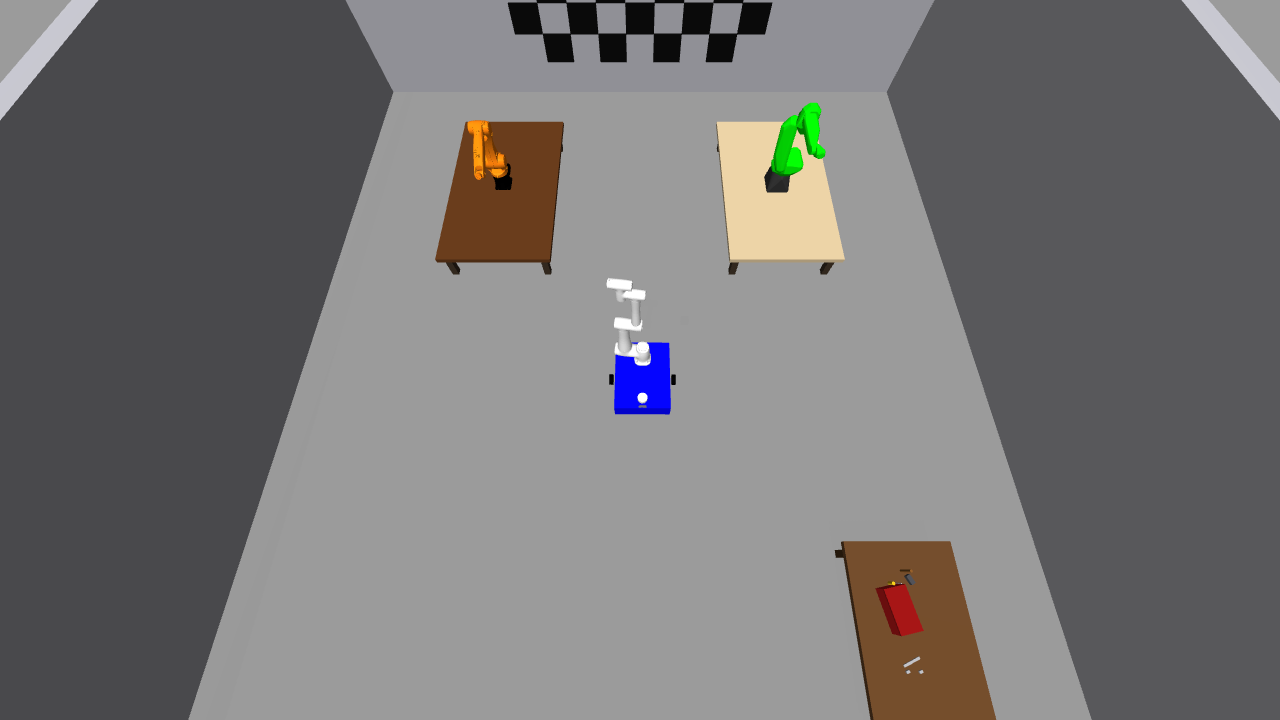
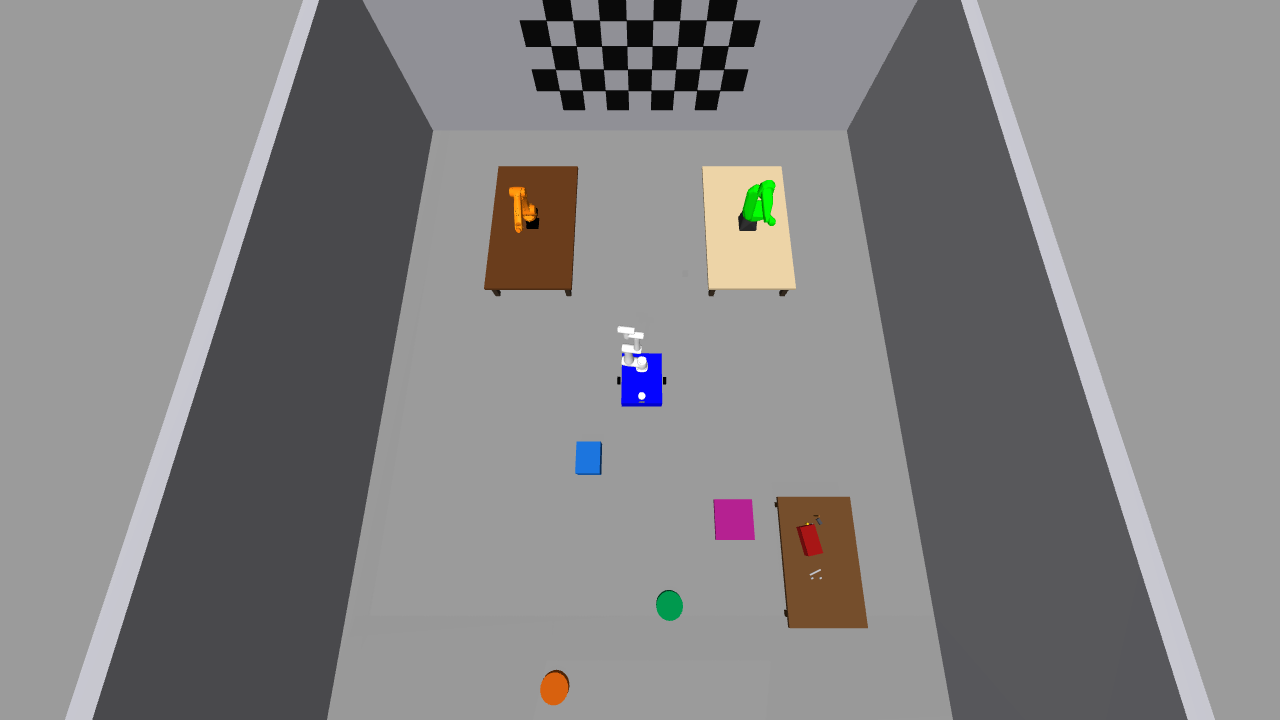
feat(sim): the workshop carries the task's stations, so it is one workcell
The workshop had the three official arms and the lab had the task's stations,
so the scene and the task lived in two different places: the robot could not
do a delivery where the arms were.

The generator now writes the same four markers into the workshop world -- the
tool shelf and the three handover points, same names, same poses, same
colours -- so both worlds are the same workcell, one with the obstacle course
and one with the arms. The delivery task runs in the workshop: verified
against the live stack, the mission and the identity check both complete with
their goal uuids correlated.

The overhead camera pose went into the generator too, rather than into the
world file it writes -- a hand edit there would have been overwritten the
next time the generator ran, which is how the camera ended up pointing at a
poster in the first place.

diff --git a/scripts/generate_workshop_world.py b/scripts/generate_workshop_world.py
@@ -210,10 +210,49 @@ def arm_cell(
     return "".join(parts)
 
 
+def task_stations() -> str:
+    """The task's own stations, so the workshop scene can run the task.
+
+    The lab world carries these four markers -- the tool shelf the robot picks
+    from and the three places it delivers to -- and the stations live in
+    `stations.yaml`, which the runtime reads. The workshop scene had the arms
+    but not the stations, so the robot could not actually do the delivery
+    there: the scene and the task were two different places.
+
+    Same names, same poses, same colours as the lab world, so the two are the
+    same workcell with the arms in it.
+    """
+    parts = [
+        "    <!-- The task's stations, shared with the lab world -->\n",
+        box_model(
+            "tool_shelf_marker", (1.25, -0.75, 0.15, 0.0), (0.45, 0.35, 0.30), (0.1, 0.42, 0.8)
+        ),
+        cylinder_model(
+            "station_a_marker", (3.20, 0.40, 0.05, 0.0), 0.18, 0.10, (0.0, 0.55, 0.28)
+        ),
+        cylinder_model(
+            "station_b_marker", (4.15, -1.10, 0.05, 0.0), 0.18, 0.10, (0.78, 0.35, 0.05)
+        ),
+        box_model(
+            "handover_zone_marker",
+            (2.10, 1.35, 0.03, 0.0),
+            (0.55, 0.55, 0.06),
+            (0.65, 0.12, 0.52),
+            collide=False,
+        ),
+    ]
+    return "".join(parts)
+
+
 def wall_camera() -> str:
-    """Wall-mounted overview camera, looking into the room along +y."""
+    """Overhead camera, looking down at the workcell.
+
+    It used to face the east wall, so the one view that could show the whole
+    scene showed a poster instead. It now looks down at the mobile base and the
+    three official arms.
+    """
     return """    <model name="workshop_overhead_camera">
-      <pose>0 -3.85 2.60 0 0.35 1.5708</pose>
+      <pose>2.0 0 7.0 0 1.25 3.1416</pose>
       <static>true</static>
       <link name="camera_link">
         <visual name="body">
@@ -279,6 +318,7 @@ def build() -> str:
     parts.append(cylinder_model("screwdriver_handle", (2.15, 2.25, 0.44, 1.1), 0.015, 0.09, (0.9, 0.75, 0.1)))
     parts.append(cylinder_model("screwdriver_shaft", (2.15, 2.31, 0.44, 1.1), 0.004, 0.13, (0.75, 0.75, 0.78)))
 
+    parts.append(task_stations())
     parts.append(wall_camera())
     parts.append(FOOTER)
     return "".join(parts)

diff --git a/docs/overview.md b/docs/overview.md
@@ -44,14 +44,18 @@
 
 | World | 内容 | 谁在用 |
 |---|---|---|
-| `collab_lab.world` | 地面、站点标记、工具架、箱子和墙（障碍物） | **默认**。`demo_sim.launch.py` 用的就是它 |
-| `workshop.world` | 墙、工作台、棋盘标定板 | `--workshop` 时加载，三台官方机械臂（KUKA KR10 / FANUC M-10iA / Dobot CR10）随后 spawn 进来 |
+| `collab_lab.world` | 地面、站点标记、工具架、箱子和墙（障碍物） | **默认**。导航、回执、校准、CI 都跑它 |
+| `workshop.world` | 墙、工作台、棋盘标定板、**任务站点**、三台官方机械臂 | `--workshop` 时加载 |
 
 它们**不是两个仿真**：同一个 launch、同一套 ROS 节点、同一张图、同一套运行时。
 区别只有「加载哪个 world 文件」和「要不要把三台官方机械臂 spawn 进来」。
 移动小车在两个 world 里都在（`gazebo_world.launch.py` 负责 spawn 它）。
 
-而**三台机械臂需要额外下载**（KUKA 和 Dobot 的官方描述带网格，几百 MB，在
+**车间场景现在也带任务站点**（工具架 + 三个交接点，和实验室 world 同名同位同色）。
+以前车间里有机械臂却没有站点 —— 场景和任务分在两个地方，机器人到了车间也没法执行
+递送。现在两个 world 是同一个工位：一个是带障碍物的版本，一个是带机械臂的版本。
+
+三台机械臂需要**额外下载**（KUKA 和 Dobot 的官方描述带网格，几百 MB，在
 `third_party/robot_descriptions/`，不入库；FANUC 走 apt 包）。所以第一次跑车间场景要先
 `bash scripts/fetch_robot_descriptions.sh`。
 

diff --git a/README.md b/README.md
@@ -227,11 +227,14 @@ bash scripts/run_gazebo_demo.sh --workshop --nav2 # 再加 SLAM + Nav2
 | World | 内容 | 谁在用 |
 |---|---|---|
 | `collab_lab.world` | 地面、站点标记、工具架、箱子和墙（障碍物） | **默认**。导航、回执、校准、CI 都跑它 |
-| `workshop.world` | 墙、工作台、棋盘标定板 | `--workshop` 时加载，三台官方机械臂随后 spawn 进来 |
+| `workshop.world` | 墙、工作台、棋盘标定板、**任务站点**、三台官方机械臂 | `--workshop` 时加载 |
 
 **不是两套仿真**：同一个 launch、同一套 ROS 节点、同一张图、同一套运行时。
 移动小车在两个 world 里都在 —— `gazebo_world.launch.py` 负责把它 spawn 进去。
 区别只有「加载哪个 world 文件」和「要不要把三台机械臂放进来」。
+
+**车间场景现在也带任务站点**（工具架 + 三个交接点，和实验室 world 同名同位同色）：
+以前车间里有机械臂却没有站点，场景和任务分在两个地方。
 
 <img alt="the workshop workcell from the overhead camera" src="docs/figures/workshop_overhead.png" width="720">
 
